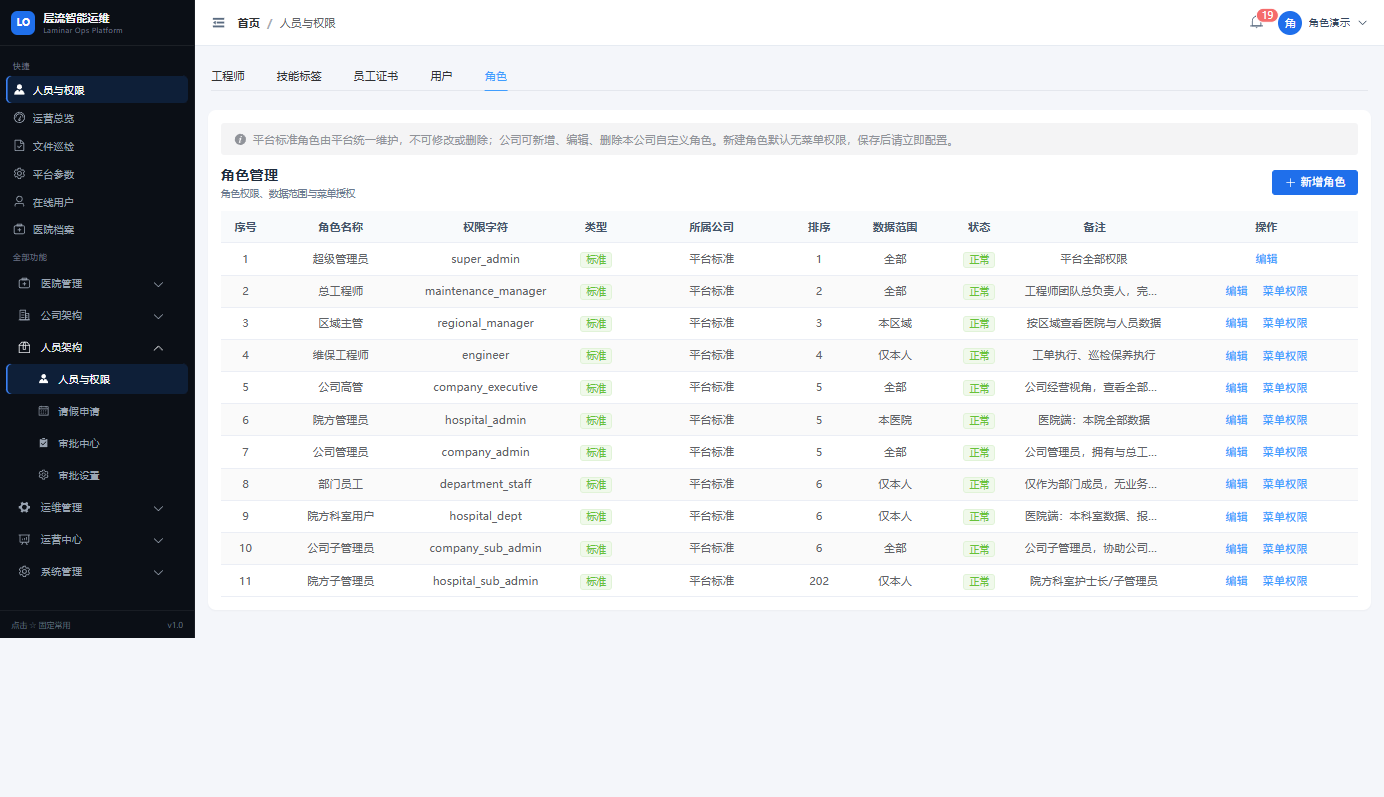
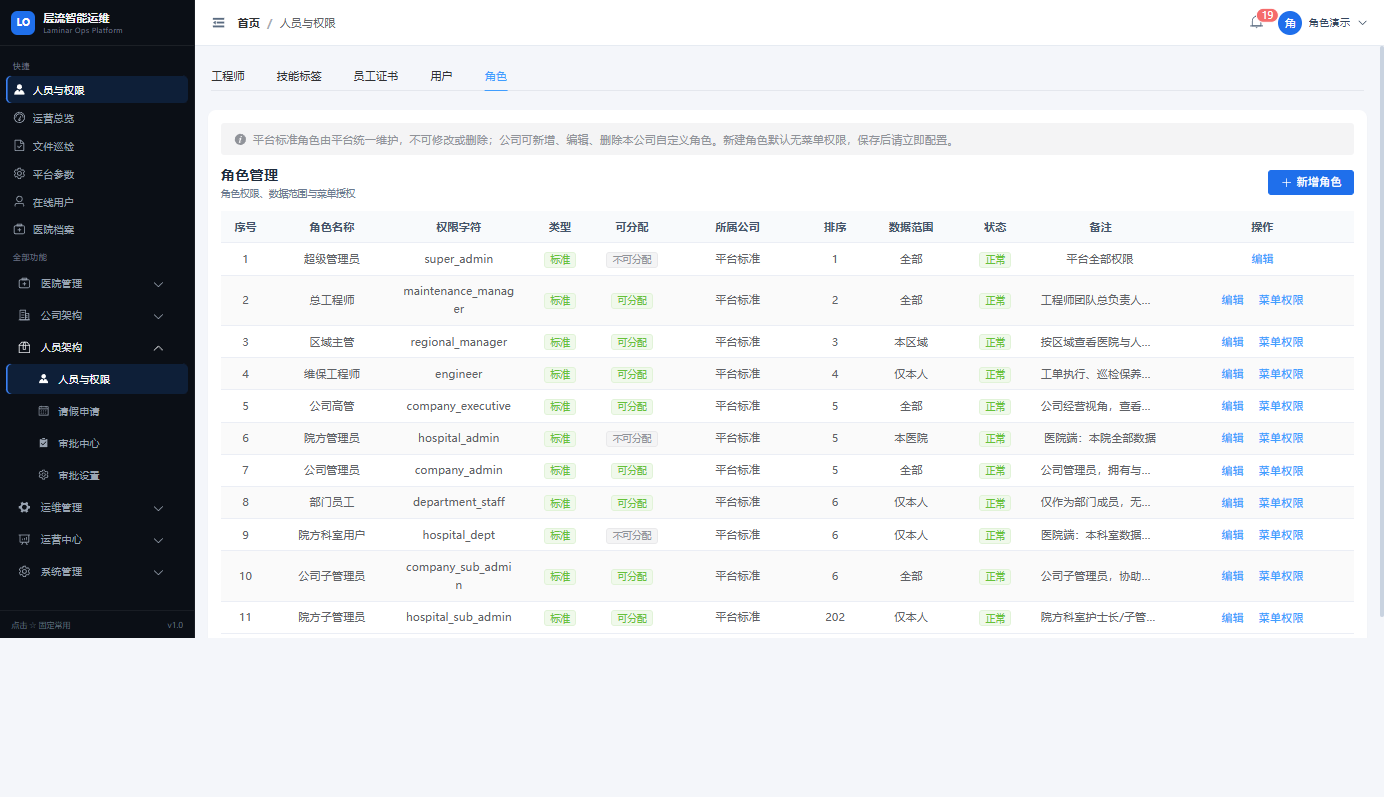
feat: add role assignable field and role E2E

diff --git a/web-admin/src/views/system/role/index.vue b/web-admin/src/views/system/role/index.vue
@@ -23,6 +23,13 @@
             </el-tag>
           </template>
         </el-table-column>
+        <el-table-column label="可分配" width="90">
+          <template #default="{ row }">
+            <el-tag :type="row.assignable === '1' ? 'success' : 'info'" size="small">
+              {{ row.assignable === '1' ? '可分配' : '不可分配' }}
+            </el-tag>
+          </template>
+        </el-table-column>
         <el-table-column label="所属公司" min-width="160">
           <template #default="{ row }">{{ row.companyName || '平台标准' }}</template>
         </el-table-column>
@@ -51,6 +58,9 @@
           <el-select v-model="form.dataScope" style="width: 100%">
             <el-option label="全部数据" value="all" /><el-option label="本区域" value="region" /><el-option label="本医院" value="hospital" /><el-option label="仅本人" value="self" />
           </el-select>
+        </el-form-item>
+        <el-form-item label="可分配">
+          <el-switch v-model="form.assignable" active-value="1" inactive-value="0" />
         </el-form-item>
         <el-form-item label="状态"><el-radio-group v-model="form.status"><el-radio value="0">正常</el-radio><el-radio value="1">停用</el-radio></el-radio-group></el-form-item>
         <el-form-item label="备注"><el-input v-model="form.remark" type="textarea" :rows="2" /></el-form-item>
@@ -166,7 +176,7 @@ function applyPreset(kind) {
   ElMessage.info(kind === 'read' ? '已选择只读权限' : kind === 'edit' ? '已选择编辑权限' : '已选择全部管理权限')
 }
 async function load() { records.value = (await request.get('/system/role/list')).data }
-function openAdd() { Object.keys(form).forEach((k) => delete form[k]); Object.assign(form, { sort: 1, dataScope: 'self', status: '0' }); dialog.value = true }
+function openAdd() { Object.keys(form).forEach((k) => delete form[k]); Object.assign(form, { sort: 1, dataScope: 'self', status: '0', assignable: '1' }); dialog.value = true }
 function openEdit(row) { Object.keys(form).forEach((k) => delete form[k]); Object.assign(form, row); dialog.value = true }
 async function submit() {
   if (!form.roleName || !form.roleKey) { ElMessage.warning('请填写角色名称与权限字符'); return }

diff --git a/web-admin/src/views/system/user/index.vue b/web-admin/src/views/system/user/index.vue
@@ -120,18 +120,13 @@ const loading = ref(false)
 const saving = ref(false)
 const accountType = ref('company')
 const accountTypes = computed(() => {
-  const types = [
+  return [
     { value: 'company', label: '公司员工' },
-    { value: 'engineer', label: '工程师' }
+    { value: 'engineer', label: '工程师' },
+    { value: 'hospital_admin', label: '院方管理员' },
+    { value: 'hospital_sub_admin', label: '院方子管理员' },
+    { value: 'hospital_dept', label: '院方科室用户' }
   ]
-  if (!store.companyId) {
-    types.push(
-      { value: 'hospital_admin', label: '院方管理员' },
-      { value: 'hospital_sub_admin', label: '院方子管理员' },
-      { value: 'hospital_dept', label: '院方科室用户' }
-    )
-  }
-  return types
 })
 const isHospitalType = computed(() => ['hospital_admin', 'hospital_sub_admin', 'hospital_dept'].includes(accountType.value))
 const hospitalDepartments = ref([])
@@ -336,8 +331,9 @@ async function submit() {
   if (accountType.value === 'hospital_sub_admin' && !form.hospitalDepartmentId) { ElMessage.warning('院方子管理员请选择所属科室'); return }
   saving.value = true
   try {
-    if (form.userId) await request.put('/system/user', form)
-    else await request.post('/system/user', form)
+    const payload = { ...form, accountType: accountType.value }
+    if (form.userId) await request.put('/system/user', payload)
+    else await request.post('/system/user', payload)
     ElMessage.success('保存成功')
     dialog.value = false
     load()
@@ -383,3 +379,4 @@ onMounted(async () => {
   white-space: nowrap;
 }
 </style>
+

diff --git a/backend/src/main/java/com/laminar/ops/system/service/SystemService.java b/backend/src/main/java/com/laminar/ops/system/service/SystemService.java
@@ -33,7 +33,6 @@ public class SystemService {
             "maintenance_manager", "regional_manager", "engineer",
             "company_executive", "department_staff", "company_admin", "company_sub_admin");
 
-    private static final Set<Long> STANDARD_ASSIGNABLE = Set.of(100L, 101L, 102L, 103L, 104L, 202L, 213L, 214L);
 
     /** 区域主管等业务下拉：仅内部账号（不含院方），按当前公司隔离 */
     public List<Map<String, Object>> userOptions() {
@@ -57,7 +56,7 @@ public class SystemService {
         Long companyId = dataScope.companyId(user);
         List<Map<String, Object>> roles = jdbc.queryForList(
                 "select role_id as `roleId`, role_name as `roleName`, role_key as `roleKey`, " +
-                        "company_id as `companyId` from sys_role where status='0' order by sort, role_id");
+                        "company_id as `companyId`, assignable from sys_role where status='0' order by sort, role_id");
         int actorRank = userRank(user);
         return roles.stream().filter(role -> {
             Long roleCompany = role.get("companyId") == null ? null : ((Number) role.get("companyId")).longValue();
@@ -65,7 +64,7 @@ public class SystemService {
             if (roleCompany != null && (companyId == null || !companyId.equals(roleCompany))) return false;
             if (roleCompany == null) {
                 Long roleId = ((Number) role.get("roleId")).longValue();
-                if (!STANDARD_ASSIGNABLE.contains(roleId)) return false;
+                if (!"1".equals(String.valueOf(role.get("assignable")))) return false;
             }
             return roleRank(String.valueOf(role.get("roleKey"))) < actorRank;
         }).map(role -> {
@@ -204,6 +203,9 @@ public class SystemService {
         }
         String nickName = validateNickName(body.get("nickName"));
         Object roleIds = body.get("roleIds");
+        if (roleIds == null || (roleIds instanceof List<?> list && list.isEmpty())) {
+            roleIds = roleIdsForAccountType(body.get("accountType"));
+        }
         boolean hospitalRole = hasHospitalRole(roleIds);
         Long hospitalId = longOf(body.get("hospitalId"));
         Long hospitalDepartmentId = longOf(body.get("hospitalDepartmentId"));
@@ -383,7 +385,7 @@ public class SystemService {
         for (Object r : list) {
             Long roleId = ((Number) r).longValue();
             List<Map<String, Object>> rows = jdbc.queryForList(
-                    "select role_key, company_id from sys_role where role_id=?", roleId);
+                    "select role_key, company_id, assignable from sys_role where role_id=?", roleId);
             if (rows.isEmpty()) throw BizException.badRequest("无权分配该角色");
             if (user.isSuperAdmin()) continue;
             Map<String, Object> role = rows.get(0);
@@ -391,7 +393,7 @@ public class SystemService {
             if (roleCompany != null && (companyId == null || !companyId.equals(roleCompany))) {
                 throw BizException.badRequest("无权分配该角色");
             }
-            if (roleCompany == null && !STANDARD_ASSIGNABLE.contains(roleId)) {
+            if (roleCompany == null && !"1".equals(String.valueOf(role.get("assignable")))) {
                 throw BizException.badRequest("无权分配该角色");
             }
             if (roleRank(String.valueOf(role.get("role_key"))) >= actorRank) {
@@ -408,6 +410,20 @@ public class SystemService {
             for (String key : user.getRoleKeys()) rank = Math.max(rank, roleRank(key));
         }
         return rank;
+    }
+
+    private Object roleIdsForAccountType(Object accountType) {
+        String key = switch (String.valueOf(accountType)) {
+            case "hospital_admin" -> "hospital_admin";
+            case "hospital_sub_admin" -> "hospital_sub_admin";
+            case "hospital_dept" -> "hospital_dept";
+            case "engineer" -> "engineer";
+            default -> null;
+        };
+        if (key == null) return null;
+        List<Long> ids = jdbc.queryForList(
+                "select role_id from sys_role where role_key=? and status='0' limit 1", Long.class, key);
+        return ids.isEmpty() ? null : ids;
     }
 
     private boolean hasHospitalRole(Object roleIds) {
@@ -545,13 +561,13 @@ public class SystemService {
         Long companyId = dataScope.companyId(AuthContext.require());
         String sql = "select r.role_id as `roleId`, r.role_name as `roleName`, r.role_key as `roleKey`, r.sort, " +
                 "r.data_scope as `dataScope`, r.status, r.remark, r.company_id as `companyId`, " +
-                "r.role_type as `roleType`, c.company_name as `companyName` from sys_role r " +
+                "r.role_type as `roleType`, r.assignable, c.company_name as `companyName` from sys_role r " +
                 "left join biz_company c on c.company_id=r.company_id ";
         if (companyId == null) {
             return jdbc.queryForList(sql + " order by r.sort");
         }
         return jdbc.queryForList(sql +
-                " where (r.company_id = ?) or (r.company_id is null and r.role_id in (100,101,102,104,202,213,214)) " +
+                " where (r.company_id = ?) or (r.company_id is null and r.assignable = '1') " +
                 " order by r.sort", companyId);
     }
 
@@ -567,10 +583,11 @@ public class SystemService {
                 "select count(*) from sys_role where role_key=? and company_id <=> ?",
                 Integer.class, roleKey, companyId);
         if (exists != null && exists > 0) throw BizException.badRequest("本公司已存在该权限字符");
-        jdbc.update("insert into sys_role(company_id,role_type,role_name,role_key,sort,data_scope,status,remark,create_time) " +
-                        "values(?,'custom',?,?,?,?,'0',?,now())",
+        jdbc.update("insert into sys_role(company_id,role_type,role_name,role_key,sort,data_scope,status,remark,create_time,assignable) " +
+                        "values(?,'custom',?,?,?,?,'0',?,now(),?)",
                 companyId, str(body.get("roleName")), roleKey, body.getOrDefault("sort", 0),
-                str(body.getOrDefault("dataScope", "self")), str(body.get("remark")));
+                str(body.getOrDefault("dataScope", "self")), str(body.get("remark")),
+                str(body.getOrDefault("assignable", "1")));
     }
 
     public void updateRole(Map<String, Object> body) {
@@ -589,10 +606,10 @@ public class SystemService {
                 "select count(*) from sys_role where role_key=? and role_id<>? and company_id <=> ?",
                 Integer.class, roleKey, roleId, roleCompany);
         if (exists != null && exists > 0) throw BizException.badRequest("本公司已存在该权限字符");
-        jdbc.update("update sys_role set role_name=?,role_key=?,sort=?,data_scope=?,status=?,remark=? where role_id=?",
+        jdbc.update("update sys_role set role_name=?,role_key=?,sort=?,data_scope=?,status=?,remark=?,assignable=? where role_id=?",
                 str(body.get("roleName")), roleKey, body.getOrDefault("sort", 0),
                 str(body.getOrDefault("dataScope", "self")), str(body.getOrDefault("status", "0")),
-                str(body.get("remark")), roleId);
+                str(body.get("remark")), str(body.getOrDefault("assignable", "1")), roleId);
     }
 
     public void deleteRole(Long id) {
@@ -1050,4 +1067,7 @@ public class SystemService {
         return o == null ? 0 : ((Number) o).intValue();
     }
 }
+
+
+
 
